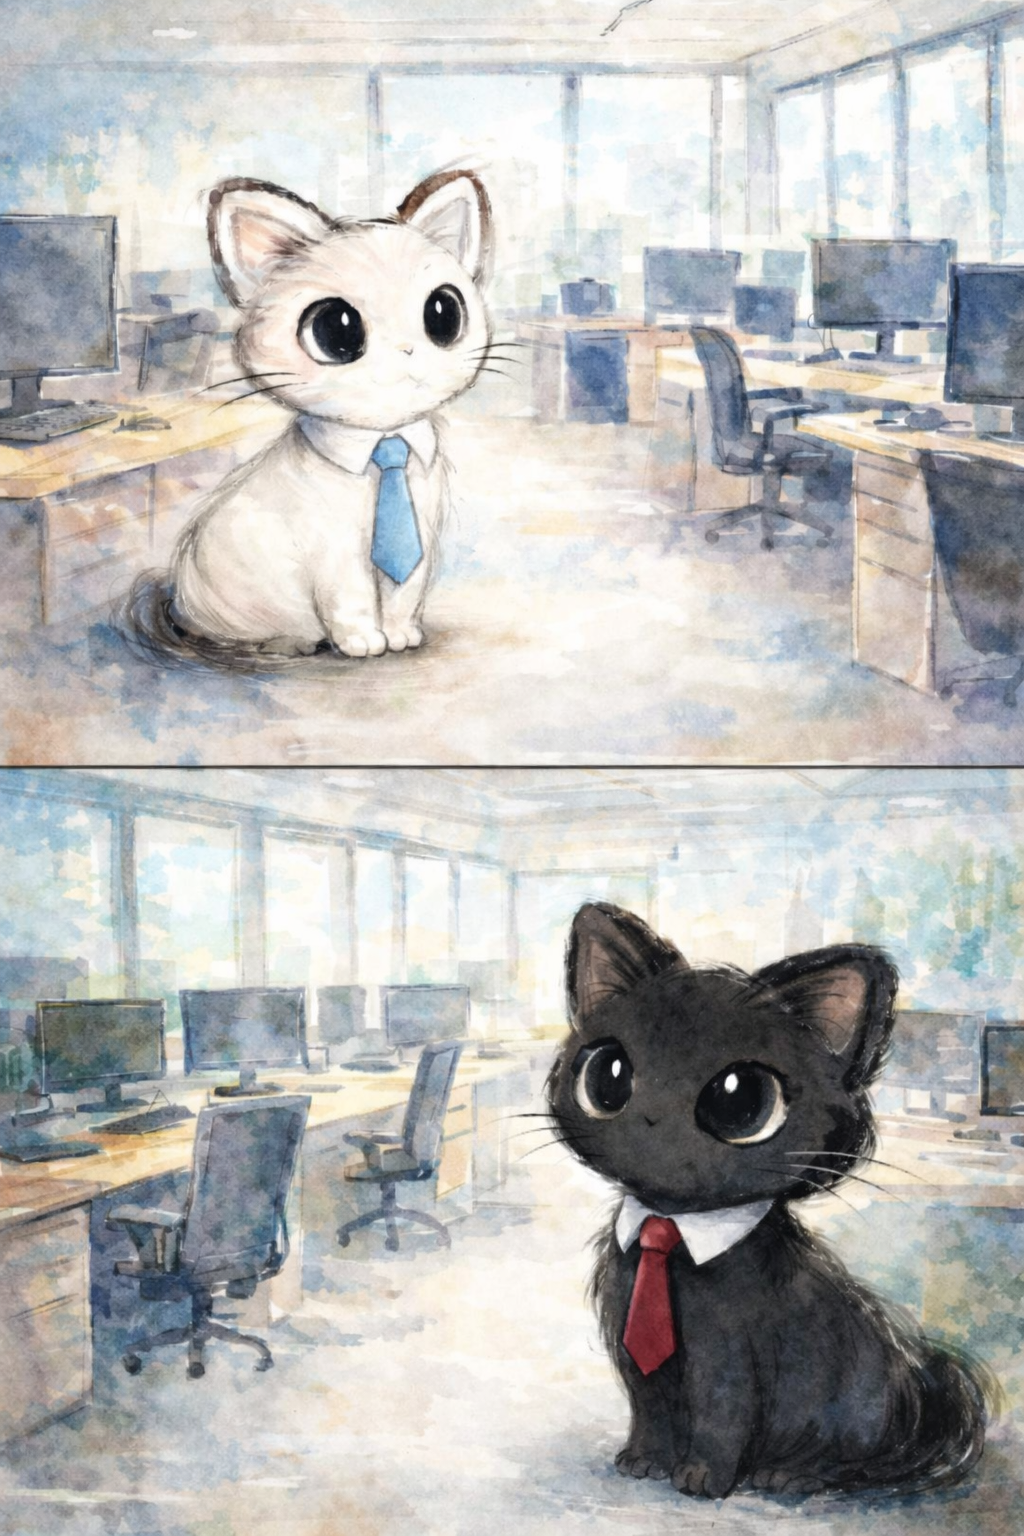
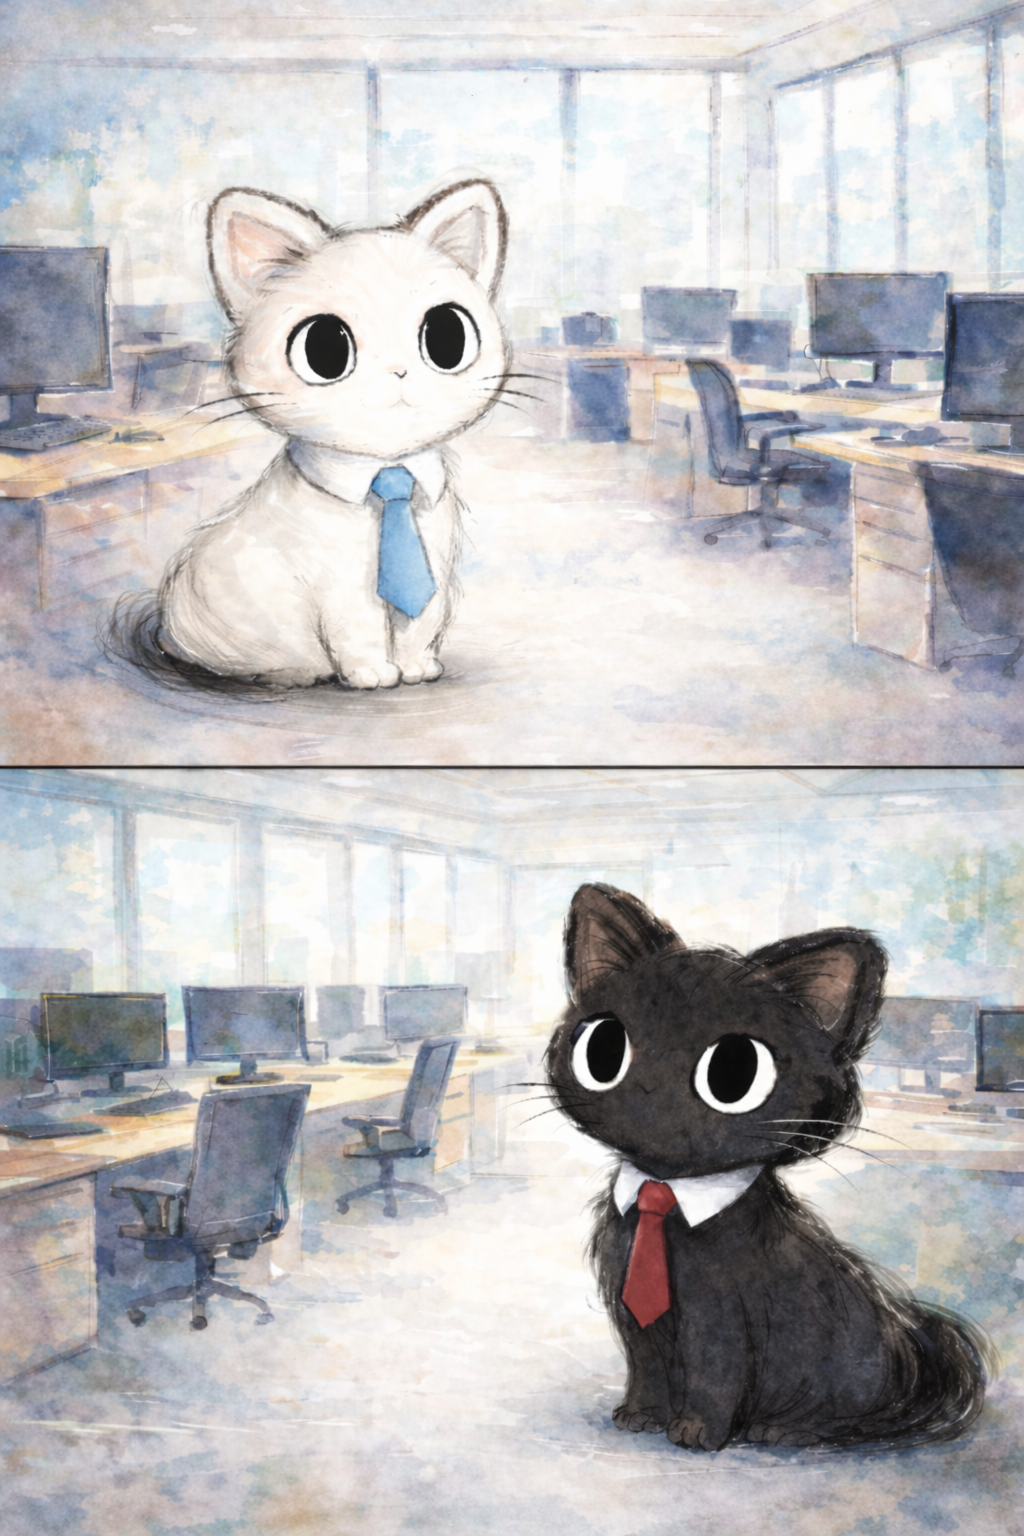
no message

diff --git a/problemData/problem1.ts b/problemData/problem1.ts
@@ -174,12 +174,12 @@ const problemData: SeedProblemData[] = [
     receiverVoice: 'male',
     englishSentence: 'The printer is acting up again.',
     japaneseSentence: 'またプリンターの調子が悪いニャ。',
-    englishReply: 'In that case, doing this should fix it!',
+    englishReply: 'In that case, doing this should fix it.',
     japaneseReply: 'そんな時は、こうすれば直るニャ。',
     scenePrompt:
-      'オフィスのプリンターの調子が悪い場面。紙が詰まっているわけではない。【1コマ目】プリンターの調子が悪くて困っている。そのことを同僚に相談している【2コマ目】相談された同僚が、プリンターを直すために思い切りパンチしている。衝撃でプリンターは砕けている',
-    senderVoiceInstruction: '困った子供のような口調',
-    receiverVoiceInstruction: null,
+      'オフィスのプリンターの調子が悪い場面。紙が詰まっているわけではない。【上半分】プリンターの調子が悪いことを同僚に相談している。表情は無表情。【下半分】相談された同僚が、プリンターを直すために思い切り振りかぶってパンチしている。表情は無表情。その衝撃でプリンターの一部は砕けている。',
+    senderVoiceInstruction: '悟りを開いた子供のような声',
+    receiverVoiceInstruction: '悟りを開いた子供のような声',
     incorrectOptions: [
       'このプリンターはとても高性能だニャー。',
       'もう仕事やめたいニャー。',
@@ -194,12 +194,12 @@ const problemData: SeedProblemData[] = [
     receiverVoice: 'male',
     englishSentence: 'I didn’t do anything, but my computer broke.',
     japaneseSentence: '何もしてないのにパソコンが壊れたニャ。',
-    englishReply: 'Then let’s just spend the afternoon sniffing some catnip!',
-    japaneseReply: 'じゃあ、午後はマタタビでも吸って過ごすニャ。',
+    englishReply: 'Then let’s just spend the afternoon sniffing some catnip.',
+    japaneseReply: 'じゃあ、午後はマタタビでも吸って過ごそうニャ。',
     scenePrompt:
-      '【1コマ目】オフィスチェアに座って、デスクの上の動かなくなったノートPCを見つめて困っている。ノートPCの近くには、倒れた花瓶があり、PCにも水がかかっている【2コマ目】猫用のマタタビを片手に、楽観的なアドバイスをしている。',
-    senderVoiceInstruction: '困った子供のような口調',
-    receiverVoiceInstruction: null,
+      '【上半分】オフィスチェアに座って、デスクの上の動かなくなったノートPCを見つめている。表情は無表情。ノートPCの近くには、倒れた花瓶があり、PCにも水がかかっている【下半分】猫用のマタタビを片手に、無表情でアドバイスをしている。',
+    senderVoiceInstruction: '悟りを開いた子供のような声',
+    receiverVoiceInstruction: '悟りを開いた子供のような声',
     incorrectOptions: [
       '仕事は楽しいニャー。',
       'パソコンの修理なら自分でできるニャ！',

diff --git a/src/lib/problem-generator.ts b/src/lib/problem-generator.ts
@@ -483,7 +483,7 @@ export function generateImagePromptWithAnimals(problem: GeneratedProblem): strin
   const senderAnimal = problem.senderVoice === 'male' ? '黒猫' : '白猫';
   const receiverAnimal = problem.receiverVoice === 'male' ? '黒猫' : '白猫';
 
-  const senderName = problem.senderVoice === 'male' ? 'ブラック' : 'ホワイト';
+  const senderName = problem.senderVoice === 'male' ? 'クロ' : 'シロ';
   const receiverName = problem.receiverVoice === 'male' ? 'クロ' : 'シロ';
 
   const [senderFaceDirection, receiverFaceDirection] =
@@ -496,7 +496,7 @@ export function generateImagePromptWithAnimals(problem: GeneratedProblem): strin
 上下の画像の高さは正確に同じであること。
 
 【重要】
-- 入力画像と同じ画風・絵柄で描くこと。完全に模倣すること。表情は無表情で、口は描かないこと。
+- 入力画像と同じ画風・絵柄で描くこと。完全に模倣すること。表情は無表情。
 - 枠線を書くことは禁止する。
 - 登場人物はすべて猫です。
 - 上下の画像を通して、それぞれの猫の特徴（毛色、模様、体型）は変わらないこと。
@@ -509,13 +509,14 @@ export function generateImagePromptWithAnimals(problem: GeneratedProblem): strin
 【場所】
 ${problem.place}
 
-猫ちゃんたちは人間のように働いたりできます。
-
 【登場キャラクター】
 - 話しかける猫（sender）
   - ${senderName}（${senderAnimal}）・・・${problem.senderRole}として行動する猫。
 - 話しかけられて応答する猫（receiver）
   - ${receiverName}（${receiverAnimal}）・・・${problem.receiverRole}として行動する猫。
+
+猫ちゃんたちは人間のように働いたりできます。
+猫ちゃんたちはいついかなる時も真顔で無表情です。真剣に、愚かで拙い行動をします。
 
 【ストーリー】
 ${problem.scenePrompt ? `- ${problem.scenePrompt}` : ''}
@@ -532,7 +533,7 @@ ${problem.scenePrompt ? `- ${problem.scenePrompt}` : ''}
 - もう${senderName}（${senderAnimal}）は描かないこと。
 
 【備考】
-- 入力画像と同じ画風で描くこと。完全に模倣すること。表情は無表情で、口は描かないこと。
+- 入力画像と同じ画風で描くこと。完全に模倣すること。表情は無表情。
 - 場所や場面に合わせた表情やジェスチャーを描写すること。
 - 動きのあるシーンは、残像を用いて大袈裟なほど動きを描写すること。
 - 上下の画像が同じ場所だとしても、背景のアングルは変えること。
